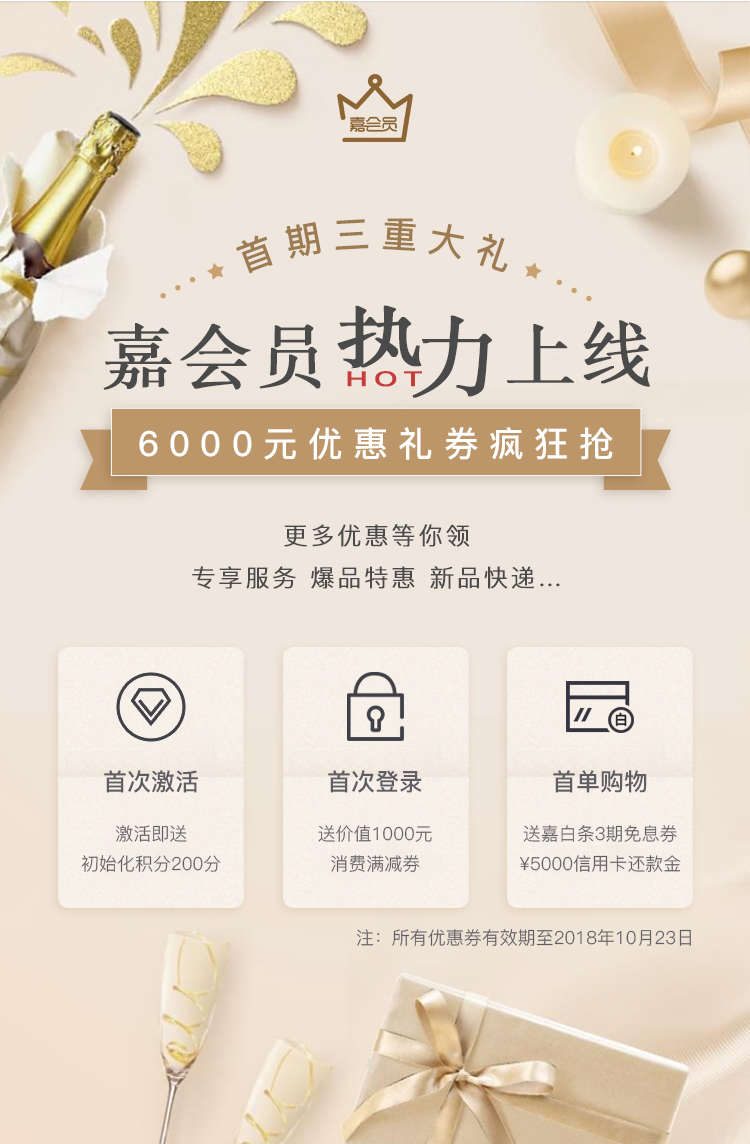
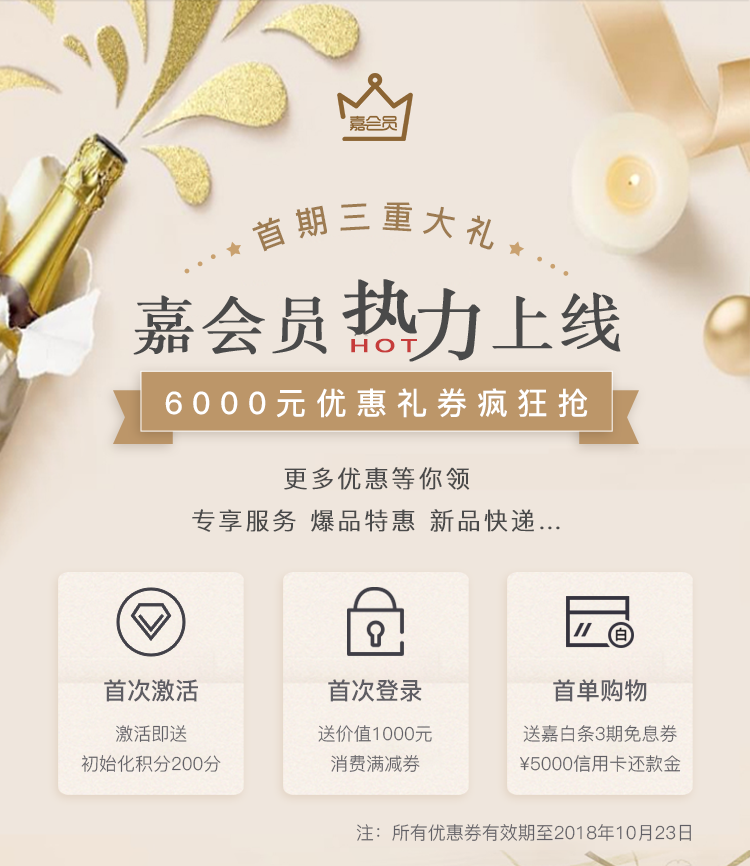
修改嘉会员上线重阳节
修改嘉会员上线重阳节

diff --git a/src2/component/classification/jia_member_online.less b/src2/component/classification/jia_member_online.less
@@ -1,9 +1,18 @@
 .menber_online_banner {
   width: 100%;
-  height: calc(~"100vw/750*1144");
+  height: calc(~"100vw/750*866");
   background-image: url("../images/img_online_toopp.png");
   background-repeat: no-repeat;
   background-size: 100%;
+}
+
+.menber_online_bannerbottom {
+  width: 100%;
+  height: calc(~"100vw/750*649");
+  background-image: url("../images/img_online_topps.png");
+  background-repeat: no-repeat;
+  background-size: 100%;
+  display: inline-block;
 }
 
 .member_online_plate {

diff --git a/src/page/classification/jia_member_online.vue b/src/page/classification/jia_member_online.vue
@@ -4,13 +4,15 @@
 
     <div class="menber_online_banner"></div>
 
+    <a class="menber_online_bannerbottom" @click="$router.push('/doubleNinthFestival/8878666577543168')"></a>
+
     <!--优惠券-->
     <div class="member_online_plate">
 
       <div class="card_top_font">
         <p>消费满减券</p>
       </div>
-  
+
       <div class="youhui_card">
 
         <div class="card_left">
